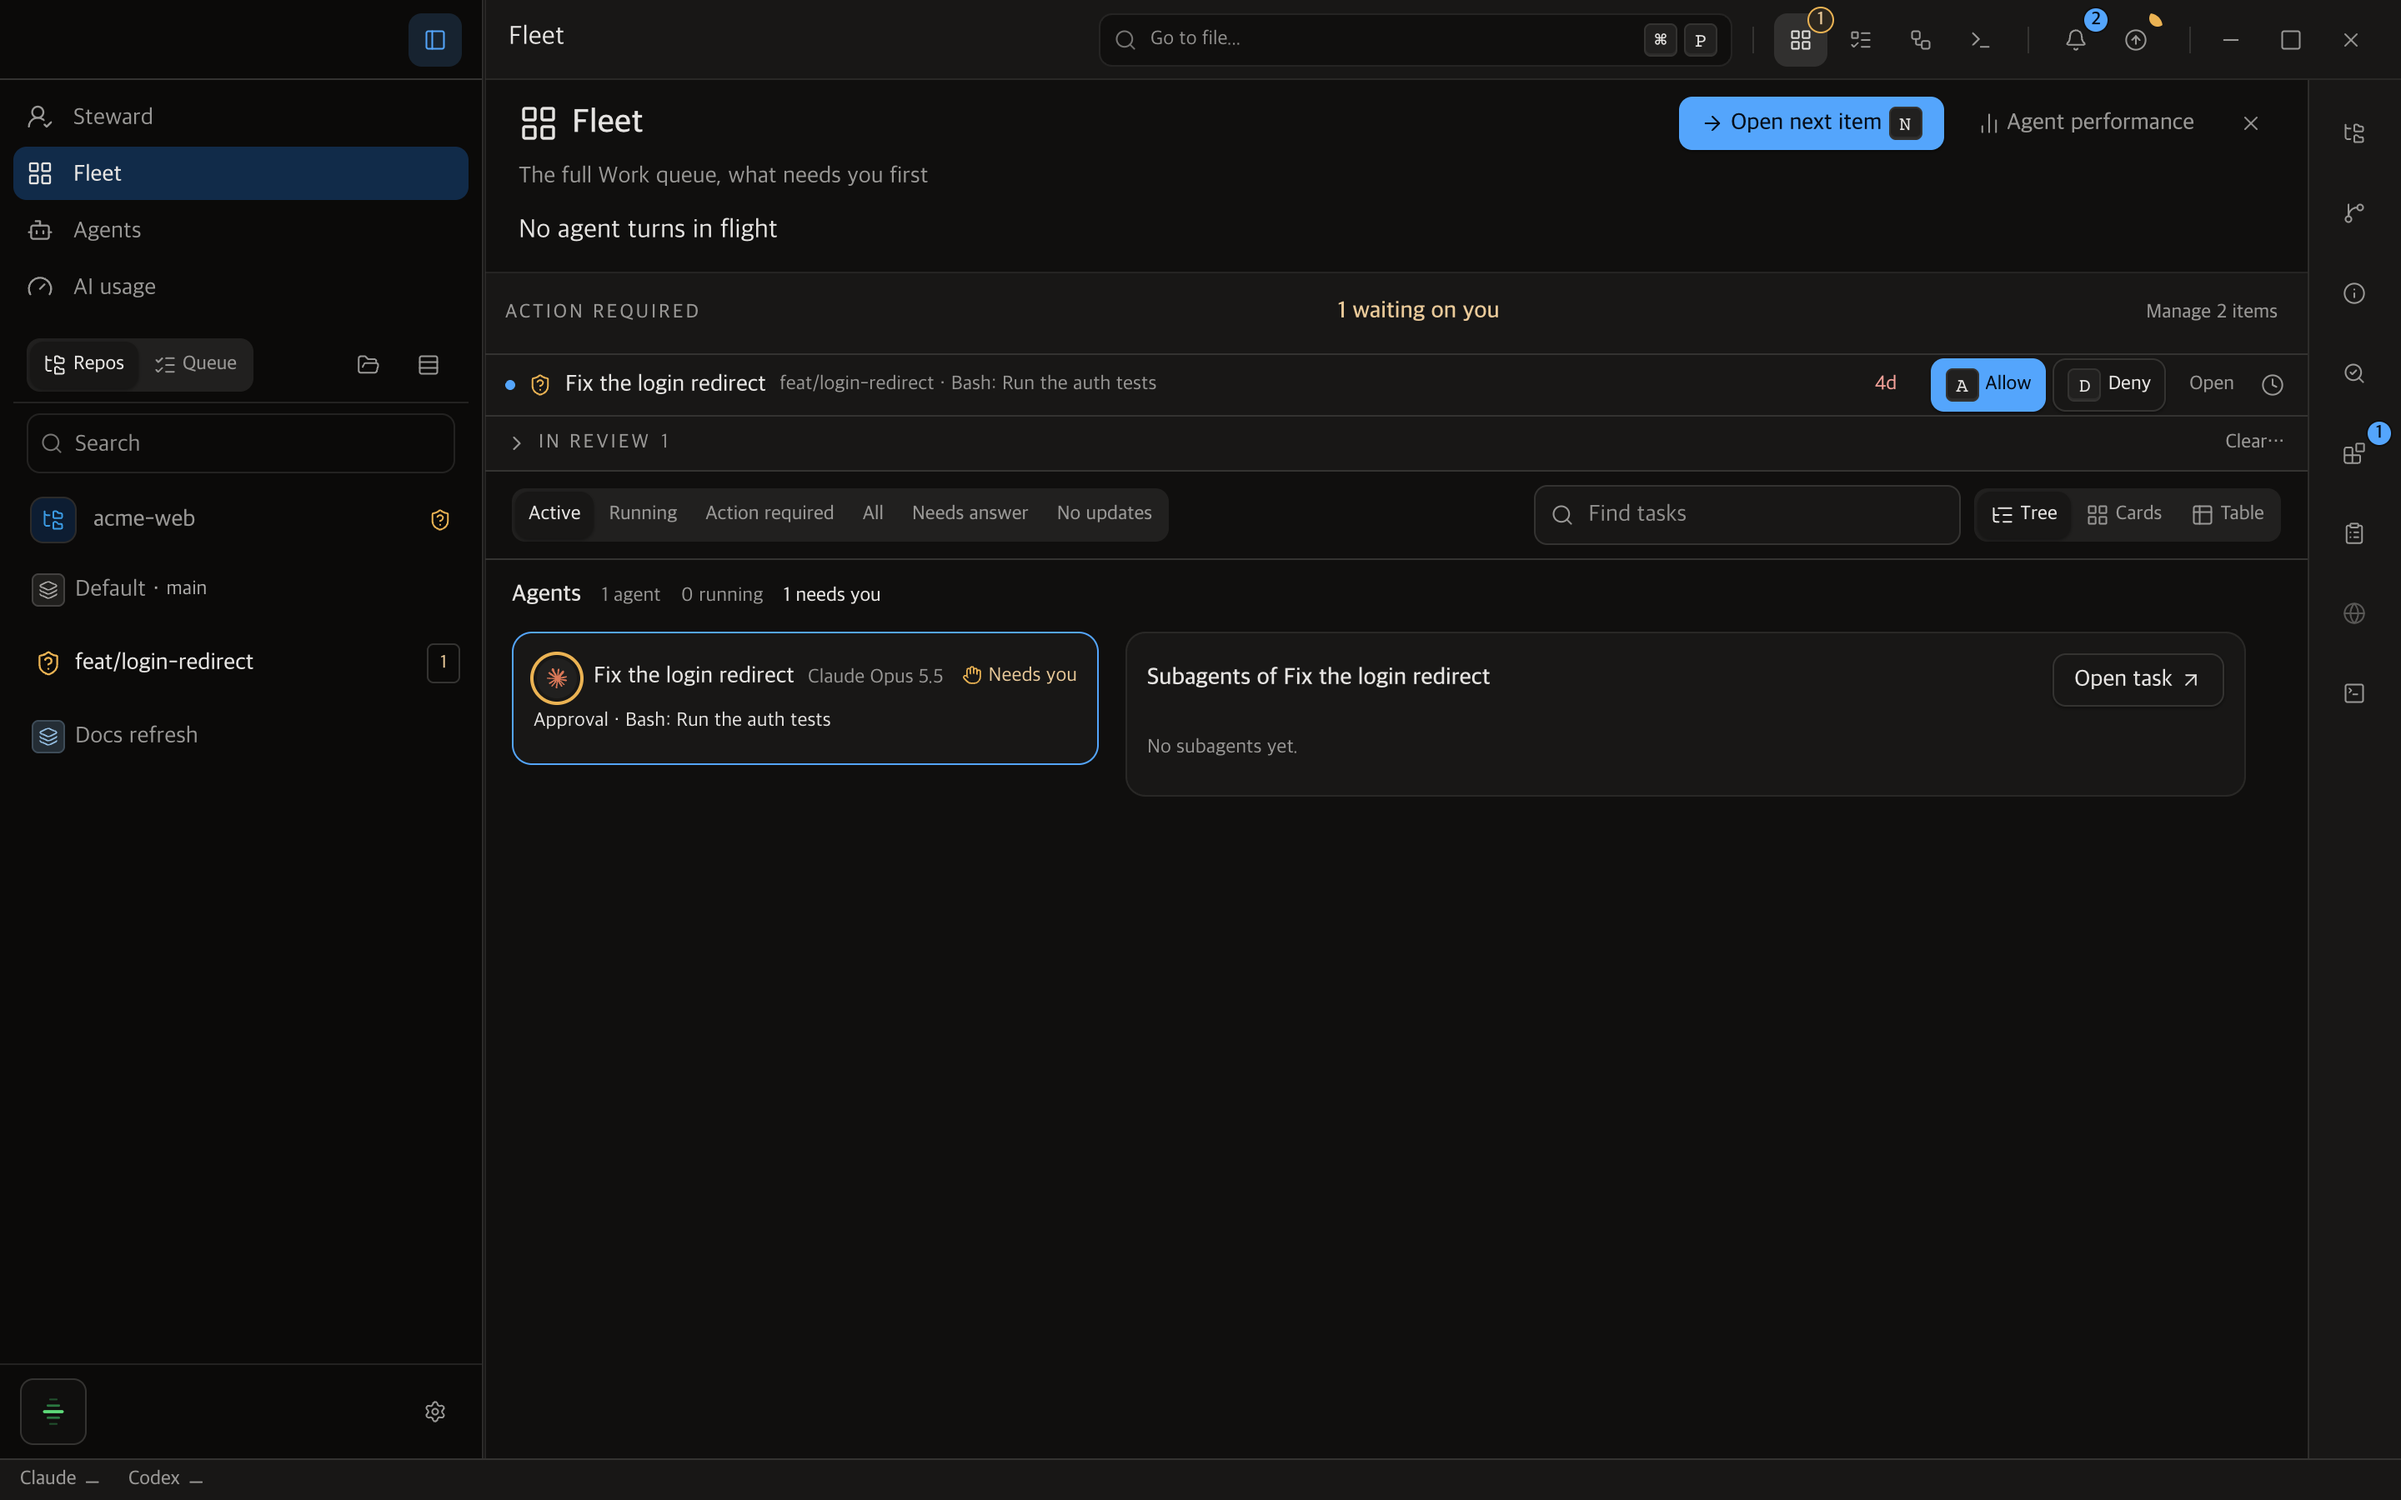
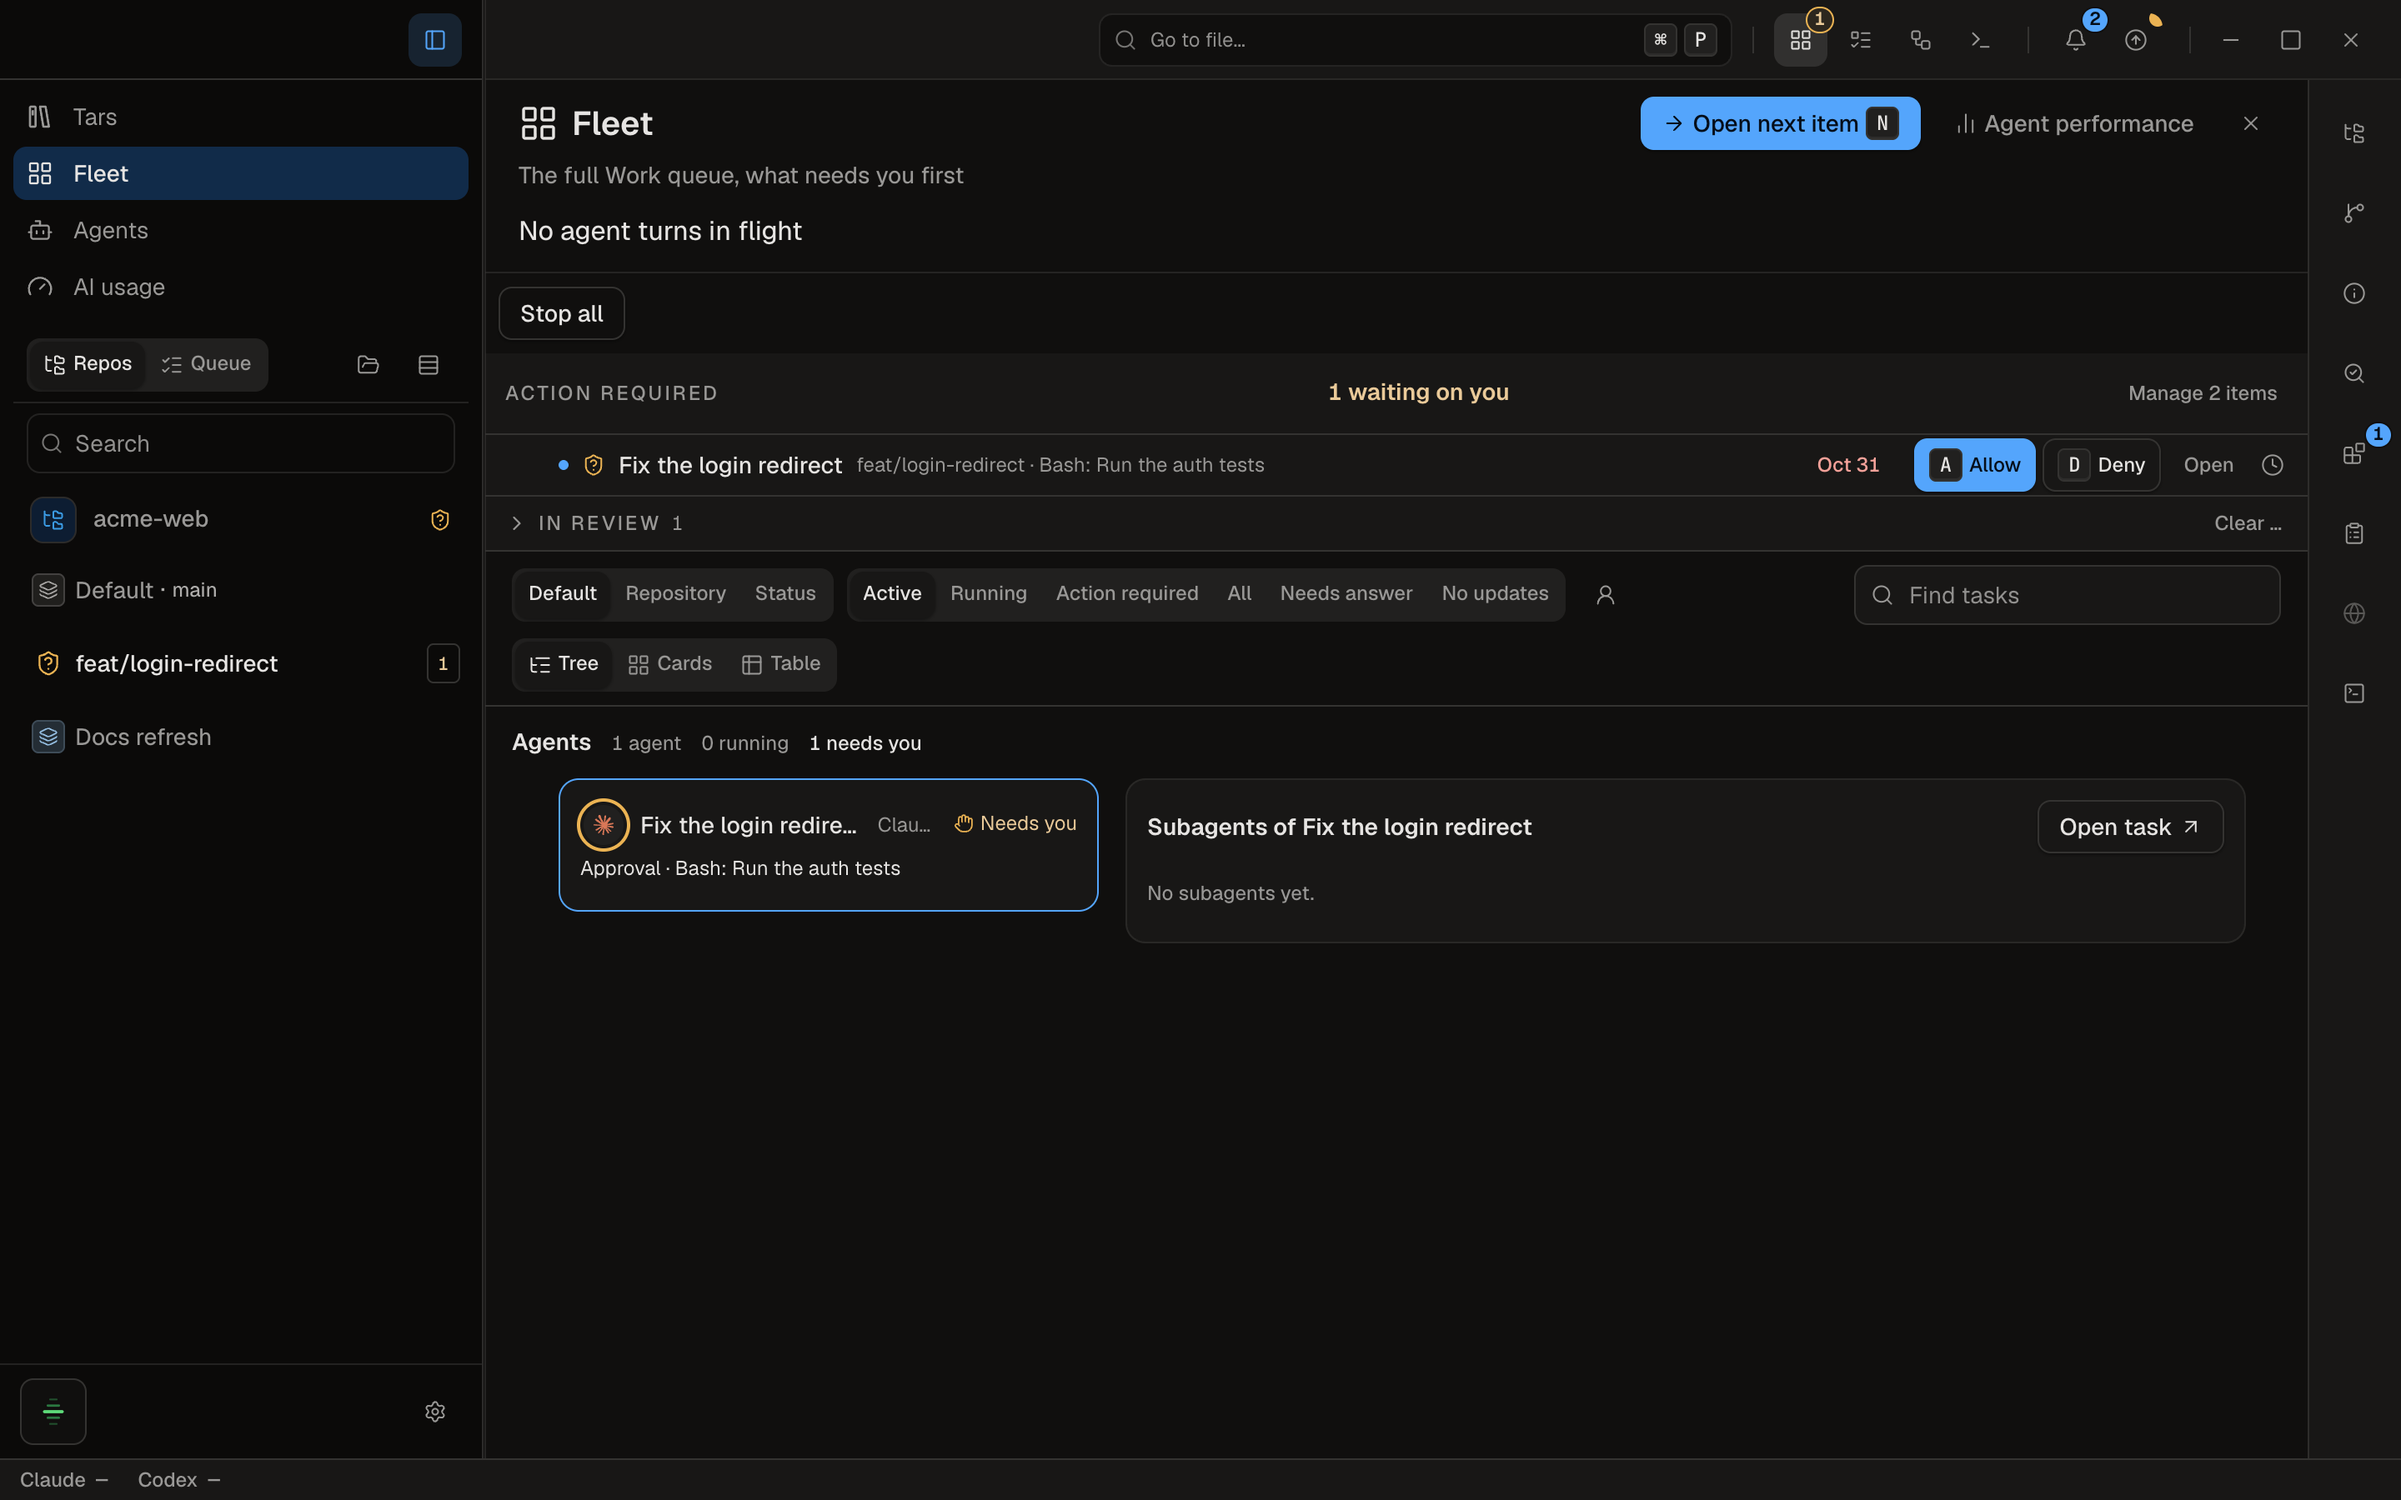
docs(fleet): document bulk controls and refresh guide screens

diff --git a/docs/features/fleet-needs-me.md b/docs/features/fleet-needs-me.md
@@ -301,6 +301,51 @@ Fleet item, and the task records the answer the same way.
 3. Stave opens the matching repository, workspace, and task before showing the
    request or result.
 
+## Select And Control Multiple Tasks
+
+Tree, Table and Cards share a selection. Use the row checkbox, Cmd/Ctrl-click
+for individual tasks, or Shift-click for a range in the visible order. With a
+row focused, X toggles it, Shift+Arrow extends the range, Cmd/Ctrl+A selects all
+visible tasks, and Esc clears the selection. Filters apply to Select all;
+hidden tasks leave the selection. Re-sorting keeps the same selected tasks.
+Selecting a group selects its visible tasks. The selected count is announced.
+
+The bulk bar shows the selected count and how many tasks each action applies
+to. Open opens the first selected task. Stop, Snooze (1 hour, 4 hours, 1 day or
+1 week), Mark read, Mark reviewed, Archive and Delete permanently act on each
+eligible task and report one result, including skipped tasks and their reasons.
+An item failing does not stop the remaining items. Archive and Snooze offer
+Undo in the result toast and with Cmd/Ctrl+Z while that toast is available.
+
+Stop also stops running delegated descendants, deepest first, and stops the
+associated agent run through its existing controls. Finished descendants remain
+untouched. Work managed by Tars goes through its Pause control or is skipped
+with a managed-by-Tars reason; it is never stopped directly.
+
+**Stop all** in the Fleet header and **Stop all running work** in the command
+palette show the turns, delegated children, agent runs and Tars work affected
+before asking for confirmation. A repository-scoped command limits that action
+to one repository. The palette also offers **Archive ended tasks in this
+workspace** and **Mark all read**.
+
+**Delete permanently** requires a separate confirmation that names the number
+of tasks and warns that deletion cannot be undone. Cancel has the initial focus;
+Enter does not confirm deletion unless the destructive button is explicitly
+focused. The host refuses tasks that are still active, have running descendants
+or agent runs, or remain protected. Only archived or ended tasks are eligible.
+Deletion removes task records and their related execution and attention history.
+
+Task History supports selecting several visible entries, **Restore (n)** and
+**Delete permanently (n)**. Restore opens the selected archived tasks or closed
+tabs. A task that cannot be restored or deleted is counted as skipped, and the
+remaining tasks continue.
+
+Tree and Table offer an optional, saved **Group by status** choice. It orders
+tasks as Needs you, Working, Ready for review, Idle and Ended. Ready for review
+includes finished work with unread results or open pull-request states. Each
+group shows its task count and can select its visible tasks. The existing
+layout and grouping remain the default.
+
 ## Files And Data
 
 - Fleet does not create a separate task ledger or execution database.

diff --git a/docs/heron/user-guide.ko.md b/docs/heron/user-guide.ko.md
@@ -976,6 +976,36 @@ Screens: [하위 작업 결과](https://github.com/sendbird/stave/blob/main/docs
 
 ## Fleet 보기
 
+행의 체크박스, Cmd/Ctrl+클릭, Shift+클릭으로 여러 작업을 선택합니다.
+행에 포커스가 있으면 **X**로 선택을 바꾸고, **Shift+방향키**로 범위를
+늘리고, **Cmd/Ctrl+A**로 표시된 작업을 모두 선택하며, **Esc**로 선택을
+지웁니다. 선택한 개수는 스크린 리더에도 안내합니다. 일괄 작업 막대에서
+**중지**, **나중에 보기**, **읽음 표시**, **검토함 표시**, **보관**,
+**영구 삭제**, **열기**를 실행합니다. 작업별 적용 여부를 확인해 처리한
+개수와 건너뛴 이유를 한 번에 보여 줍니다. 보관과 나중에 보기는 토스트의
+**실행 취소**나 토스트가 남아 있는 동안 Cmd/Ctrl+Z로 되돌립니다.
+
+**중지**는 실행 중인 하위 작업을 먼저 중지하고 부모 작업과 연결된
+에이전트 실행도 기존 중지 경로로 멈춥니다. 이미 끝난 하위 작업은 그대로
+둡니다. Tars가 맡은 일은 Tars를 통해 일시정지하거나 건너뜁니다.
+Fleet 머리글의 **모두 중지**나 명령 팔레트의 **실행 중인 작업 모두 중지**는
+영향받는 턴, 하위 작업, 에이전트 실행, Tars 작업 개수를 확인받은 뒤
+실행합니다. 저장소별 명령으로 범위를 좁힐 수 있습니다. 팔레트에는
+**이 워크스페이스의 종료된 작업 보관**과 **모두 읽음 표시**도 있습니다.
+
+**영구 삭제**는 실행 중인 턴·하위 작업·실행이 없는 보관되거나 종료된
+작업에만 적용하며 보호된 작업은 건너뜁니다. 확인창에서 개수와 되돌릴 수
+없다는 안내를 확인합니다. 처음에는 취소에 포커스가 있어 Enter만 눌러서는
+삭제되지 않습니다. **작업 기록**에서도 여러 작업을 골라 **복원 (n)**이나
+**영구 삭제 (n)**를 한 번에 실행합니다.
+
+트리와 표에서는 **상태별 묶기**를 선택해 **확인 필요**, **작업 중**,
+**검토 준비됨**, **대기**, **종료됨** 순으로 볼 수 있습니다. 끝난 작업에
+읽지 않은 결과나 열린 PR 상태가 있으면 검토 준비됨에 표시합니다.
+묶음 머리글은 개수를 보여 주고 표시된 작업을 선택합니다. 선택한 묶기
+방식은 저장되며 기본값은 기존 저장소별 묶기입니다.
+
+
 Fleet 보기는 모든 워크스페이스의 작업을 내가 할 일 순서로 모읍니다. 사이드바의 **작업 대기열** 보기도 같은 순서를 씁니다.
 
 ```pipeline "먼저 볼 순서"

diff --git a/docs/heron/user-guide.en.md b/docs/heron/user-guide.en.md
@@ -1041,6 +1041,35 @@ Screens: [Schedules](https://github.com/sendbird/stave/blob/main/docs/screenshot
 
 ## Fleet View
 
+Select tasks with their checkboxes, Cmd/Ctrl-click or Shift-click. With a row
+focused, **X** toggles selection, **Shift+Arrow** extends it, **Cmd/Ctrl+A**
+selects the visible tasks and **Esc** clears it. The selected count is announced.
+The bulk bar offers **Stop**, **Snooze**, **Mark read**, **Mark reviewed**,
+**Archive**, **Delete permanently** and **Open**. Each action reports how many
+changed and which tasks were skipped. Archive and Snooze offer **Undo** in the
+toast and with Cmd/Ctrl+Z while that toast is available.
+
+**Stop** also stops running delegated children before their parent and uses the
+agent run's own stop control. Finished children stay as they are. Work owned by
+Tars is paused through Tars or skipped. **Stop all** in the Fleet header, or
+**Stop all running work** in the command palette, lists the affected turns,
+children, runs and Tars work and asks for confirmation first. A repository
+command narrows the scope. The palette also offers **Archive ended tasks in
+this workspace** and **Mark all read**.
+
+**Delete permanently** is available for archived or ended tasks with no running
+turn, child or run. Protected tasks are skipped. The confirmation names the
+number of tasks and warns that this cannot be undone. Cancel receives focus;
+Enter does not confirm by default. In **Task History**, select multiple tasks
+to **Restore (n)** or **Delete permanently (n)** together.
+
+Tree and Table optionally **Group by status**: **Needs you**, **Working**,
+**Ready for review**, **Idle**, then **Ended**. Finished work with unread results
+or open pull-request states is ready for review. Group headers show counts and
+select their visible tasks. The grouping choice is saved; repository grouping
+stays the default.
+
+
 Fleet View collects tasks from every workspace in the order you should act on them. The sidebar's **Work queue** view uses the same order.
 
 ```pipeline "What to look at first"

diff --git a/docs/features/keyboard-shortcuts.md b/docs/features/keyboard-shortcuts.md
@@ -131,7 +131,7 @@ choice.
 | Save file | `Cmd/Ctrl+S` | Editor |
 | Send review comments | `Cmd/Ctrl+Alt+Enter` | Editor diff view |
 | Undo settle or snooze | `Cmd/Ctrl+Z` | While a Work queue Undo toast shows, not while typing |
-| Dialog primary action | `Enter` or `Cmd/Ctrl+Enter` | Dialogs; use `Cmd/Ctrl+Enter` in multi-line fields |
+| Dialog primary action | `Enter` or `Cmd/Ctrl+Enter` | Dialogs; use `Cmd/Ctrl+Enter` in multi-line fields. Permanent deletion requires explicitly focusing its confirmation button |
 
 ## Surfaces
 
@@ -139,6 +139,11 @@ These keys work only while their surface is open or focused.
 
 | Action | Keys | Where |
 | --- | --- | --- |
+| Toggle focused task selection | `X` | Fleet or Task History, with a task row focused |
+| Extend task selection | `Shift+ArrowUp/ArrowDown` | Fleet or Task History task rows |
+| Select all visible tasks | `Cmd/Ctrl+A` | Fleet or Task History rows; respects filters |
+| Clear task selection | `Esc` | Fleet or Task History, before closing the surface |
+| Undo bulk archive or snooze | `Cmd/Ctrl+Z` | While the action's Undo toast is available, not while typing |
 | Next item that needs you | `N` | Fleet View, not while typing |
 | Close Fleet View | `Esc` | Fleet View; steps back first: an open panel, then the focused row, then the search |
 | Next inbox row | `J` or `ArrowDown` | Fleet's inbox or the notification list, with a row focused |
